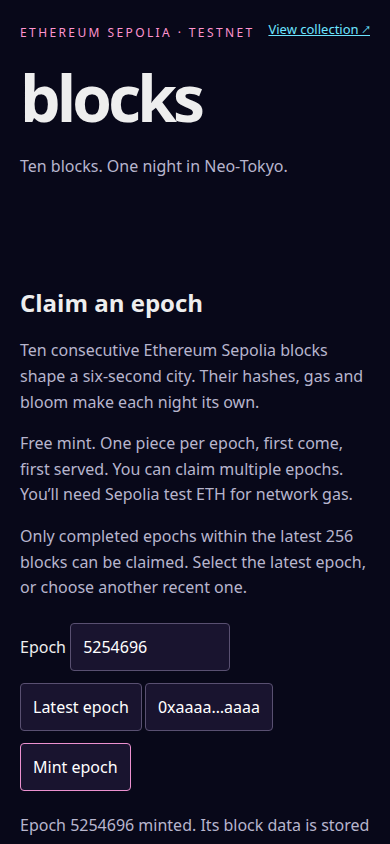
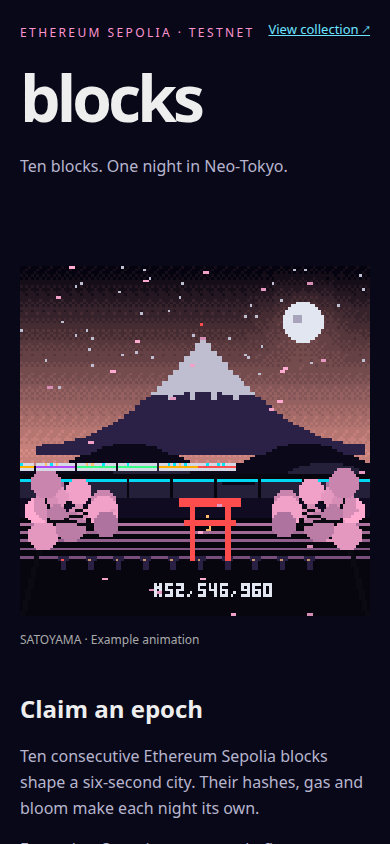
Keep blocks artwork visible on mobile and narrow wallet helpers

Changed region(s): [[0.0308, 0.3081, 0.9538, 0.7085], [0.0308, 0.8318, 0.9538, 0.9858], [0.0308, 0.7393, 0.5231, 0.8009]]

diff --git a/blocks-page/dist/style.css b/blocks-page/dist/style.css
@@ -1,2 +1,3 @@
 :root{color-scheme:dark;font:16px system-ui,sans-serif;background:#080819;color:#eee}*{box-sizing:border-box}body{margin:0}header,main,footer{max-width:1160px;margin:auto;padding:24px}header>a{float:right}h1{font-size:clamp(64px,12vw,140px);letter-spacing:-.06em;line-height:1;margin:24px 0}h2{font-size:24px}p{color:#b7b5cd;line-height:1.6;max-width:620px}a{color:#6ce4ff}#availability{color:#ff94cf;font-size:12px;letter-spacing:.2em}.mint{display:grid;grid-template-columns:1fr 1fr;gap:44px;align-items:center;padding:30px 0 60px}figure{margin:0}figure img{width:100%;image-rendering:pixelated;aspect-ratio:1;background:#14132b}figcaption{font-size:12px;color:#aaa;margin-top:10px}input,button{background:#19142f;color:#fff;padding:12px;border:1px solid #595071;font:inherit;border-radius:4px;margin:6px 3px 6px 0}input{width:150px}button{cursor:pointer}button:disabled{opacity:.5;cursor:default}button:not(:disabled):hover{border-color:#f59bdb}#mint{border-color:#ec91d0}.scenes{display:grid;grid-template-columns:repeat(4,1fr);gap:16px}.scenes button{padding:0;text-align:left;overflow:hidden}.scenes img{width:100%;image-rendering:pixelated;aspect-ratio:1}.scenes span{display:block;padding:12px;font-size:12px;letter-spacing:.1em}footer{padding-top:60px;color:#aaa;font-size:13px}@media(max-width:700px){.mint{grid-template-columns:1fr;gap:24px}.scenes{grid-template-columns:repeat(2,1fr)}header,main,footer{padding:20px}}
 section+section{padding:30px 0;border-top:1px solid #2e2845}.traits{display:flex;gap:32px;flex-wrap:wrap}.traits dt{font-size:12px;color:#aaa}.traits dd{margin:5px 0;color:#ff94cf}button:focus-visible,a:focus-visible,input:focus-visible{outline:2px solid #6ce4ff;outline-offset:4px}a:not([href]){visibility:hidden}#download{display:inline-block;padding:12px 0}#read-status{min-height:1.6em}#epoch,#view-epoch{width:160px}header>a{font-size:13px}#status{min-height:3em}@media(prefers-reduced-motion:reduce){html{scroll-behavior:auto}}
+.mint{align-items:start}@media(max-width:700px){.mint figure{order:-1}}
